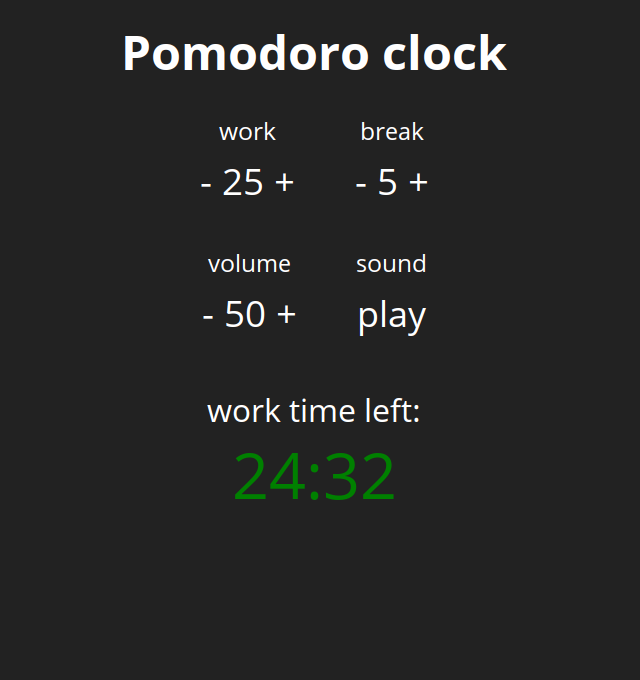
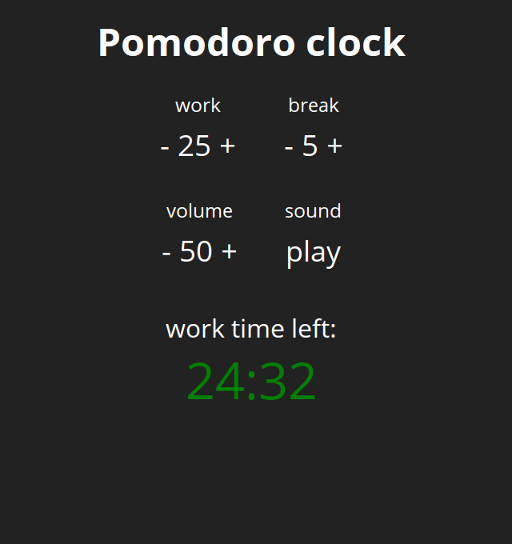
shrink screenshot slightly

diff --git a/README.md b/README.md
@@ -6,7 +6,6 @@ To use, set the work/break times and sound volume to whatever you prefer, then c
 
 https://dschmaryl.github.io/pomodoro-clock/
 
-
 Screenshot:
 
-![Pomodoro Clock](/public/static/screenshot.png?raw=true)
+![Pomodoro Clock Screenshot](/public/static/screenshot.png?raw=true)
